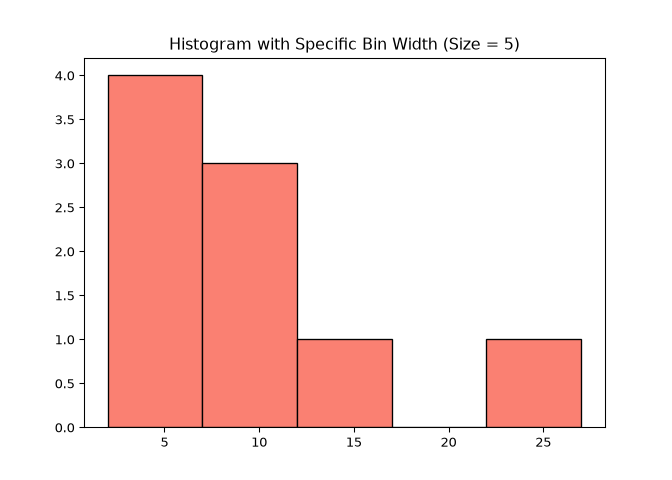
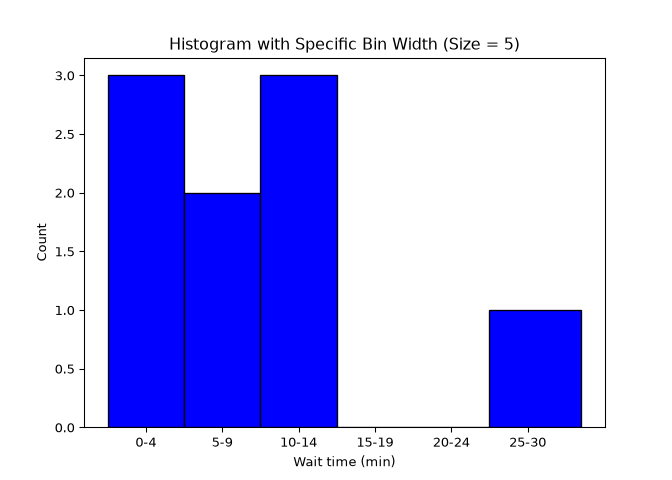
Finished question 7.

diff --git a/HW01/09242026_HW01.md b/HW01/09242026_HW01.md
@@ -131,15 +131,53 @@ The results are …. compared to Q4!!
 
 ## (c) Produce a labeled histogram using edges 0, 5, 10, 15, 20, 25, 30, and print the bin counts. Use bins closed on the left and open on the right, except the final bin includes 30. Also produce a labeled horizontal boxplot with the 1.5 × IQR rule. (3 points)
 
-``` python
-bin_width = 5
-custom_bins = np.arange(min(d["wait_min"]), max(d["wait_min"]) + bin_width, bin_width)
+### Create Histogram:
 
-plt.hist(d["wait_min"], bins=custom_bins, edgecolor='black', color='salmon')
+``` python
+custom_bins = np.array([0, 5, 10, 15, 20, 25, 31])
+
+plt.hist(d["wait_min"], bins=custom_bins, edgecolor='black', color='blue')
+
+# Add tick labels:
+centers = custom_bins[:-1] + 2.5 # Label bin centers except for the upper bound.
+labels = [f"{b}-{b+4}" for b in custom_bins[:-1]] # Create a list of bin labels.
+labels[-1] = "25-30" # Add a last label for the final bin.
+plt.xticks(centers, labels) # Add the labels to the plot.
+```
+
+    ## ([<matplotlib.axis.XTick object at 0x10ed05e80>, <matplotlib.axis.XTick object at 0x10ed34a50>, <matplotlib.axis.XTick object at 0x10ed351d0>, <matplotlib.axis.XTick object at 0x10ed35950>, <matplotlib.axis.XTick object at 0x10ed360d0>, <matplotlib.axis.XTick object at 0x10ed36850>], [Text(2.5, 0, '0-4'), Text(7.5, 0, '5-9'), Text(12.5, 0, '10-14'), Text(17.5, 0, '15-19'), Text(22.5, 0, '20-24'), Text(27.5, 0, '25-30')])
+
+``` python
 plt.title("Histogram with Specific Bin Width (Size = 5)")
+plt.xlabel("Wait time (min)")
+plt.ylabel("Count")
 plt.show()
 ```
 
 <img src="09242026_HW01_files/figure-gfm/unnamed-chunk-4-1.png" alt="" width="672" />
 
+### Create Boxplot:
+
+``` python
+plt.boxplot(d["wait_min"].dropna(), orientation="horizontal",
+whis=1.5, showmeans=False)
+```
+
+    ## {'whiskers': [<matplotlib.lines.Line2D object at 0x10edc7ed0>, <matplotlib.lines.Line2D object at 0x10edec050>], 'caps': [<matplotlib.lines.Line2D object at 0x10edec190>, <matplotlib.lines.Line2D object at 0x10edec2d0>], 'boxes': [<matplotlib.lines.Line2D object at 0x10edc7d90>], 'medians': [<matplotlib.lines.Line2D object at 0x10edec410>], 'fliers': [<matplotlib.lines.Line2D object at 0x10edec550>], 'means': []}
+
+``` python
+plt.title("Boxplot Showing Distribution of Wait Times")
+plt.xlabel("Wait (minutes)")
+plt.show()
+```
+
+<img src="09242026_HW01_files/figure-gfm/unnamed-chunk-5-3.png" alt="" width="672" />
+
 ## (d) In two or three sentences, describe the distribution, explain why the mean uses the observed-wait count, and state how you would handle the flagged wait. (2 points)
+
+The mean uses the observed wait count in the basic formula for sample
+mean by dividing the sum of all the observations by the number of non-na
+values (i.e., the observed wait count). In this case, since the flagged
+wait is so much higher than other waits, I would run analyses with and
+without the outlier to see if results changed. If I were presenting or
+writing a paper, I would report both results.
